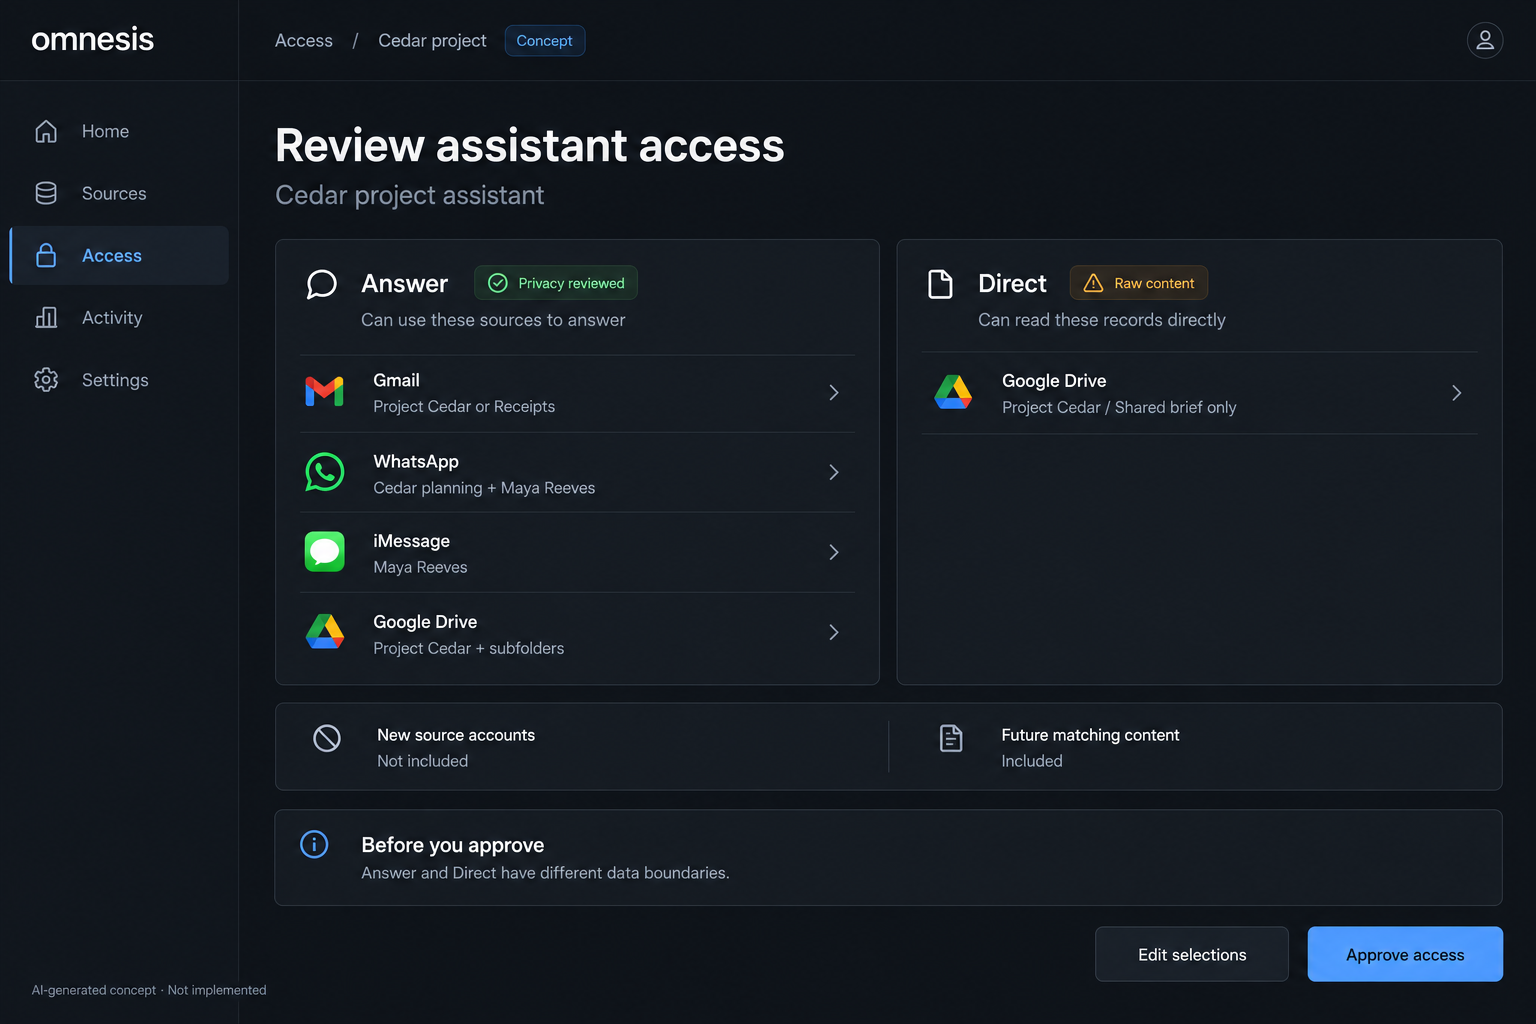
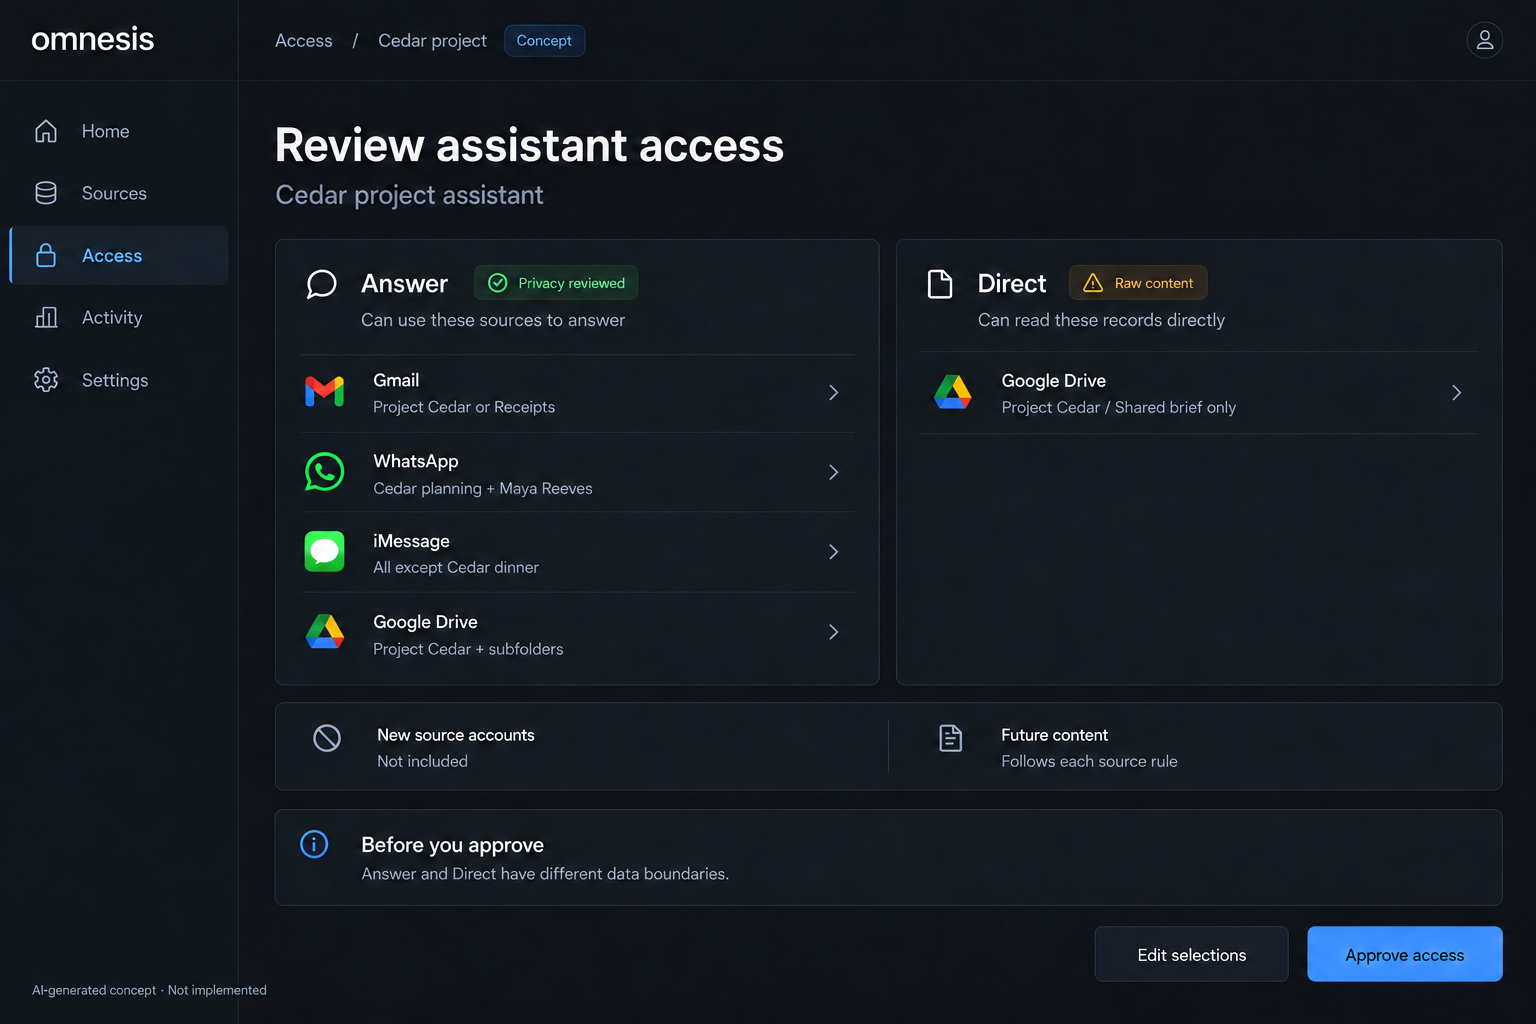
Separate source scope concepts and show allowlist and blocklist modes

diff --git a/.github/discussion-assets/per-source-scopes/README.md b/.github/discussion-assets/per-source-scopes/README.md
@@ -10,10 +10,6 @@ These assets illustrate the per-source access boundary design discussion. They a
 
 Use case: ui-mockup. Create one polished high fidelity landscape desktop web app concept screen, about 1536 by 1024. This is Omnesis's authenticated owner portal, not Gmail or WhatsApp's own UI. Use actual Omnesis portal dark design tokens: background #0d1117, panels #161b22, subtle borders #30363d, primary text #e6edf3, secondary text #8b949e, restrained blue accent #58a6ff. System sans typography, 8px radii, small outline icons, precise grid alignment, readable short English labels. Flat straight-on UI screenshot, no device mockup, no 3D, no gradients or decorative illustrations. Header brand 'omnesis', breadcrumb 'Access / Cedar project', small badge 'Concept'. Compact sidebar 'Home', 'Sources', 'Access' (selected), 'Activity', 'Settings'. Main workspace spacious and credible, fictional data only. No URL bar or real personal data. All text must be spelled correctly. Main heading 'Choose Gmail access'. Subheading 'project@example.com'. Segmented control 'Off | Everything | Selected', Selected active. Two columns: left large selection panel, right narrower live summary. Left heading 'Choose labels', search input 'Search labels…', checked selected rows 'Project Cedar' and 'Receipts', unchecked 'Travel' and 'Newsletters'. Two selected chips. Small control 'Match any selected label'. Collapsed 'Advanced conditions'. Right heading 'Access preview', summary 'Emails with Project Cedar OR Receipts', three sample rows titled 'Cedar launch notes', 'Project estimate', 'Studio Northstar receipt'. Each tiny green 'Included'. Below a clear sentence 'New matching email will be included.' Lower separate setting 'Separate attachment content' with toggle Off. Help 'Does not redact content inside an email.' Footer left 'Back', right button 'Save selection'. Put 'AI-generated concept · Not implemented' small at bottom. Render an elegant useful permission picker with high text legibility.
 
-### conversations
-
-Use case: ui-mockup. Create one polished high fidelity landscape desktop web app concept screen, about 1536 by 1024. This is Omnesis's authenticated owner portal, not Gmail or WhatsApp's own UI. Use actual Omnesis portal dark design tokens: background #0d1117, panels #161b22, subtle borders #30363d, primary text #e6edf3, secondary text #8b949e, restrained blue accent #58a6ff. System sans typography, 8px radii, small outline icons, precise grid alignment, readable short English labels. Flat straight-on UI screenshot, no device mockup, no 3D, no gradients or decorative illustrations. Header brand 'omnesis', breadcrumb 'Access / Cedar project', small badge 'Concept'. Compact sidebar 'Home', 'Sources', 'Access' (selected), 'Activity', 'Settings'. Main workspace spacious and credible, fictional data only. No URL bar or real personal data. All text must be spelled correctly. Main heading 'Choose conversations'. Subheading 'Find by person, then select exact conversations.' Search field contains 'Maya Reeves'. Two equal side-by-side provider panels: 'WhatsApp' and 'iMessage', each with Selected mode badge. WhatsApp rows: checked 'Cedar planning', secondary 'Group · Maya, Jamie, you'; checked 'Maya Reeves', secondary 'Direct conversation'; unchecked 'Weekend walks', secondary 'Group · Maya, Sarah, you'. iMessage rows: checked 'Maya Reeves', secondary 'Direct conversation'; unchecked 'Cedar dinner', secondary 'Group · Maya, Jamie, you'. Show a compact bottom summary '3 conversations selected' and sentence 'Other conversations with Maya stay excluded.' A distinct amber outlined consent strip with checked checkbox and exact concise copy 'Include future messages and group members.' Another sentence 'New conversations are not included.' Footer Back and blue 'Save selection'. Small footer 'AI-generated concept · Not implemented'. This screen must make clear searching a person doesn't grant all that person's chats. No individual-message selections.
-
 ### drive
 
 Use case: ui-mockup. Create one polished high fidelity landscape desktop web app concept screen, about 1536 by 1024. This is Omnesis's authenticated owner portal, not Gmail or WhatsApp's own UI. Use actual Omnesis portal dark design tokens: background #0d1117, panels #161b22, subtle borders #30363d, primary text #e6edf3, secondary text #8b949e, restrained blue accent #58a6ff. System sans typography, 8px radii, small outline icons, precise grid alignment, readable short English labels. Flat straight-on UI screenshot, no device mockup, no 3D, no gradients or decorative illustrations. Header brand 'omnesis', breadcrumb 'Access / Cedar project', small badge 'Concept'. Compact sidebar 'Home', 'Sources', 'Access' (selected), 'Activity', 'Settings'. Main workspace spacious and credible, fictional data only. No URL bar or real personal data. All text must be spelled correctly. Main heading 'Choose Google Drive folders'. Subheading 'project@example.com'. Segmented control 'Off | Everything | Selected', Selected active. Two columns: folder browser on left and access preview on right. Search input 'Find a folder…'. Breadcrumb 'My Drive'. Folder tree: expanded unchecked parent 'Projects'; indented checked highlighted 'Project Cedar'; under it indented child folders 'Design' and 'Research' with small 'Included' badges; sibling 'Project Harbor' unchecked; root 'Personal' unchecked. Selected folder chip 'Projects / Project Cedar'. Below tree checked switch 'Include subfolders'. Right title 'Access preview', sample included file rows 'Cedar brief.pdf', 'Design / Layout notes', 'Research / Interview guide'. Small muted row 'Project Harbor — not included'. Clear explanatory card: 'New files added or moved here will be included after sync.' Additional short note 'Shortcuts do not grant access to their targets.' Footer 'Back' and blue 'Save selection'. Small bottom 'AI-generated concept · Not implemented'. Precise folder tree indentation, no exclusion toggle or advanced features not needed.
@@ -25,3 +21,31 @@ Use case: ui-mockup. Create one polished high fidelity landscape desktop web app
 ### Drive refinement
 
 Edit this Omnesis Google Drive folder-access UI concept. Preserve all styling, layout, typography, names, colors, dimensions, and all other content. Make only these corrections: in Access preview, replace the subtitle 'Files in the selected folders will be available to Omnesis after sync.' with 'The assistant can read files in the selected folders.' In the folder tree, Design and Research are inherited selections under the checked Project Cedar folder: show both with muted checked boxes (not empty unchecked boxes), keeping their Included badges. Project Harbor must be an unchecked sibling of Project Cedar under Projects, not a child of Project Cedar. Keep the footer 'AI-generated concept · Not implemented'. All text crisp and correctly spelled.
+
+## Source-specific allowlist and blocklist concepts
+
+Each editor configures exactly one source instance. WhatsApp illustrates an allowlist; iMessage illustrates a blocklist. The final review summarizes the separate decisions. The combined conversation picker was replaced.
+
+### whatsapp
+
+Use case: ui-mockup. Create one high-fidelity landscape 1536x1024 desktop Omnesis portal concept screenshot. Actual portal palette: background #0d1117, panels #161b22, borders #30363d, text #e6edf3 and #8b949e, blue accent #58a6ff. System sans typography, 8px radii, small outline icons, readable crisp English text, generous spacing, flat straight-on screenshot. No device mockup, no illustrations. Sidebar brand 'omnesis', links Home, Sources, Access (selected), Activity, Settings. Header breadcrumb 'Access / Cedar project' and Concept badge. IMPORTANT: This is a scope editor for exactly ONE selected source. No combined provider tabs, no other messaging provider, no cross-provider search. Everything on screen is scoped to the named source. Small footer 'AI-generated concept · Not implemented'. Main heading 'Choose WhatsApp access' with WhatsApp icon. Above heading subtle back link 'Back to sources'. Segmented control 'Off | Everything | Selected', Selected active. Main card heading 'Choose WhatsApp conversations'. At top of this card two clearly labelled radio options: 'Only selected conversations' selected, and 'Everything except selected conversations' unselected. A small mode caption 'Allowlist'. Search input contains 'Maya Reeves', label 'Find within WhatsApp'. Three rows only: checked 'Cedar planning', secondary 'Group · Maya, Jamie, you'; checked 'Maya Reeves', secondary 'Direct conversation'; unchecked 'Weekend walks', secondary 'Group · Maya, Sarah, you'. Right smaller panel 'WhatsApp access preview', two selected chips 'Cedar planning' and 'Maya Reeves'. Text '2 conversations selected'. Text 'Other WhatsApp conversations stay excluded.' Bottom amber outlined strip with checked acknowledgement 'Include future messages and group members.' Beneath 'New conversations are not included.' Footer secondary 'Cancel', blue button 'Save WhatsApp scope'. All content fictional. Do not display iMessage anywhere.
+
+### imessage
+
+Use case: ui-mockup. Create one high-fidelity landscape 1536x1024 desktop Omnesis portal concept screenshot. Actual portal palette: background #0d1117, panels #161b22, borders #30363d, text #e6edf3 and #8b949e, blue accent #58a6ff. System sans typography, 8px radii, small outline icons, readable crisp English text, generous spacing, flat straight-on screenshot. No device mockup, no illustrations. Sidebar brand 'omnesis', links Home, Sources, Access (selected), Activity, Settings. Header breadcrumb 'Access / Cedar project' and Concept badge. IMPORTANT: This is a scope editor for exactly ONE selected source. No combined provider tabs, no other messaging provider, no cross-provider search. Everything on screen is scoped to the named source. Small footer 'AI-generated concept · Not implemented'. Main heading 'Choose iMessage access' with Apple Messages green speech bubble icon. Above heading subtle back link 'Back to sources'. Segmented control 'Off | Everything | Selected', Selected active. Main card heading 'Choose iMessage conversations'. At top two clearly labelled radio options: 'Only selected conversations' unselected, and 'Everything except selected conversations' selected. Small mode caption 'Blocklist'. Search input placeholder 'Find a conversation…', label 'Find within iMessage'. Two rows only: checked amber 'Cedar dinner', secondary 'Group · Maya, Jamie, you', badge 'Excluded'; unchecked 'Maya Reeves', secondary 'Direct conversation', badge 'Included'. Right smaller panel 'iMessage access preview', excluded amber chip 'Cedar dinner'. Text 'All conversations except Cedar dinner'. Text '1 conversation excluded'. Bottom amber outlined checked acknowledgement 'Include new conversations and future members.' Beneath 'Future messages in allowed conversations are included.' Do not say new conversations are excluded: in blocklist mode new conversations ARE included. Footer secondary 'Cancel', blue button 'Save iMessage scope'. All content fictional. Do not display WhatsApp anywhere.
+
+### Review update
+
+Edit this Omnesis final access-review concept. Preserve all layout, colors, icons, typography, other rows and wording. Change only the iMessage summary under Answer from 'Maya Reeves' to 'All except Cedar dinner'. Change the bottom right summary label 'Future matching content' to 'Future content', and its value 'Included' to 'Follows each source rule'. This reflects source-specific allowlist and blocklist modes. Keep all provider rows visible only as a read-only final summary, no editable cross-source picker. Keep footer 'AI-generated concept · Not implemented'.
+
+### whatsapp refinement
+
+Edit only text in this WhatsApp scope concept; keep layout, names, colors and selections unchanged. Replace top selected mode label 'Selected' with 'Custom'. Everywhere explanatory prose says Omnesis can access or content is available to Omnesis, replace Omnesis with 'the assistant'; this is external-agent permission, not ingestion. Replace the subtitle under heading with 'Choose what this assistant may read from WhatsApp.' In preview replace helper with 'What this assistant can read from WhatsApp.' Add concise line below 'Other WhatsApp conversations stay excluded.': 'New conversations are not included.' Preserve Only selected conversations radio, selected Cedar planning and Maya Reeves, unchecked Weekend walks. Preserve future-group-members acknowledgement and all footer controls.
+
+### imessage refinement
+
+Change exactly one text label: replace the active top segmented control label 'Selected' with 'Custom'. Preserve absolutely all other text, selections, layout, colors and pixels as closely as possible. This is iMessage blocklist mode with Everything except selected conversations active, Cedar dinner excluded and new conversations included.
+
+### review refinement
+
+Correct exactly one row's summary in this access-review screen. Under the WhatsApp heading, replace the erroneous summary 'Cedar planning + All except Cedar dinner' with exactly 'Cedar planning + Maya Reeves'. Keep the separate iMessage row below as 'All except Cedar dinner'. Do not change any other text, layout, colors, icons, spacing or selections. All other content must stay unchanged.
